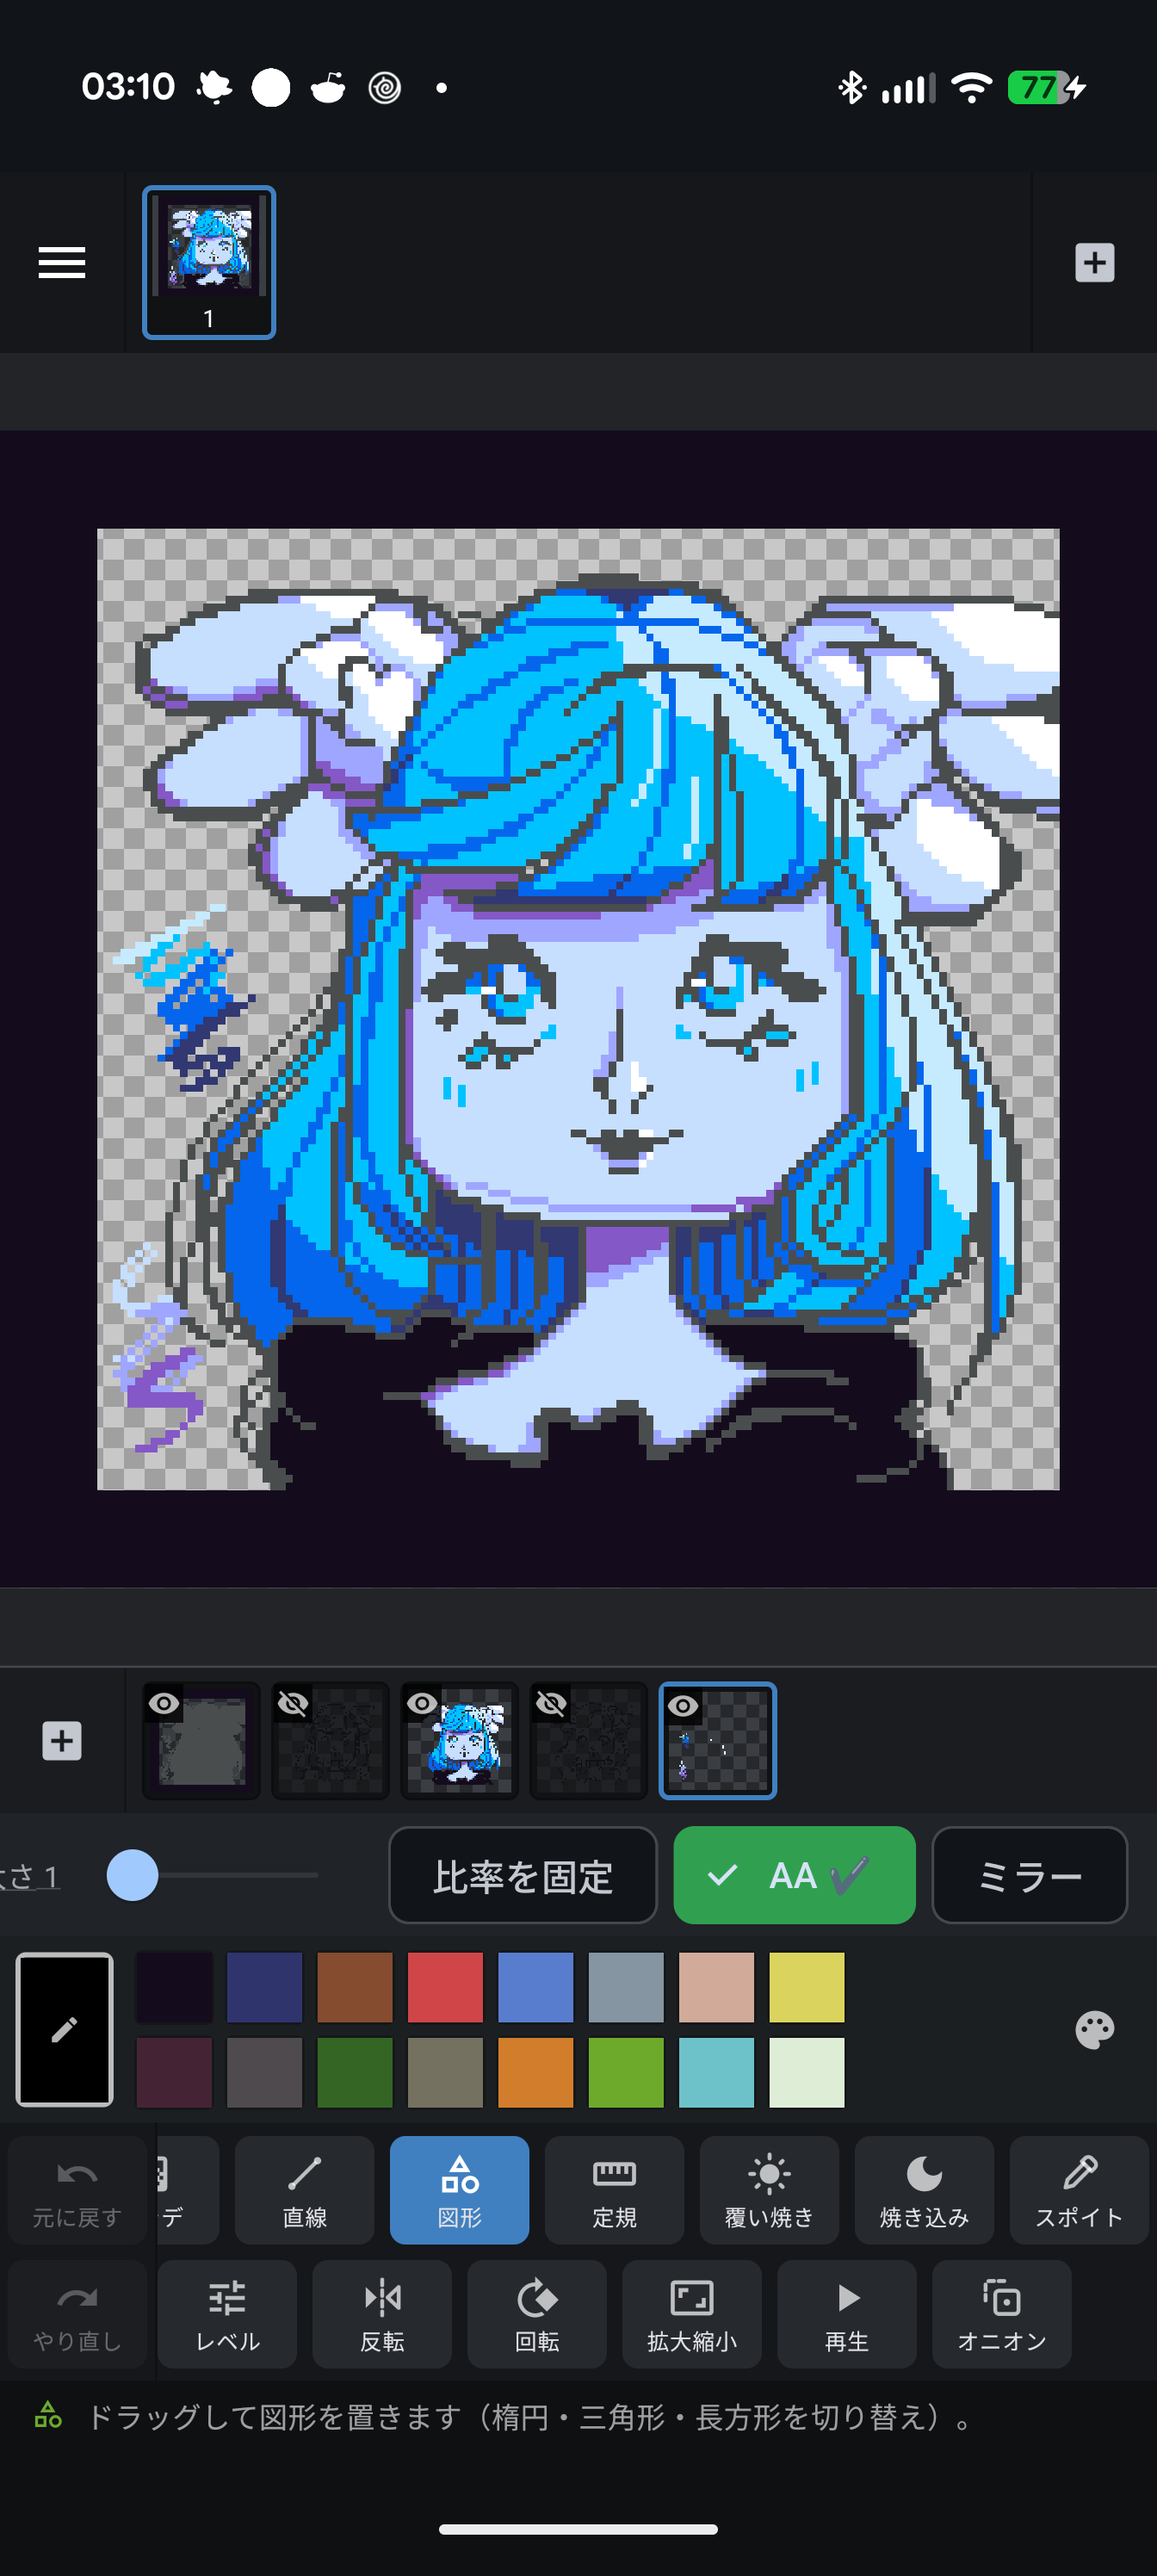
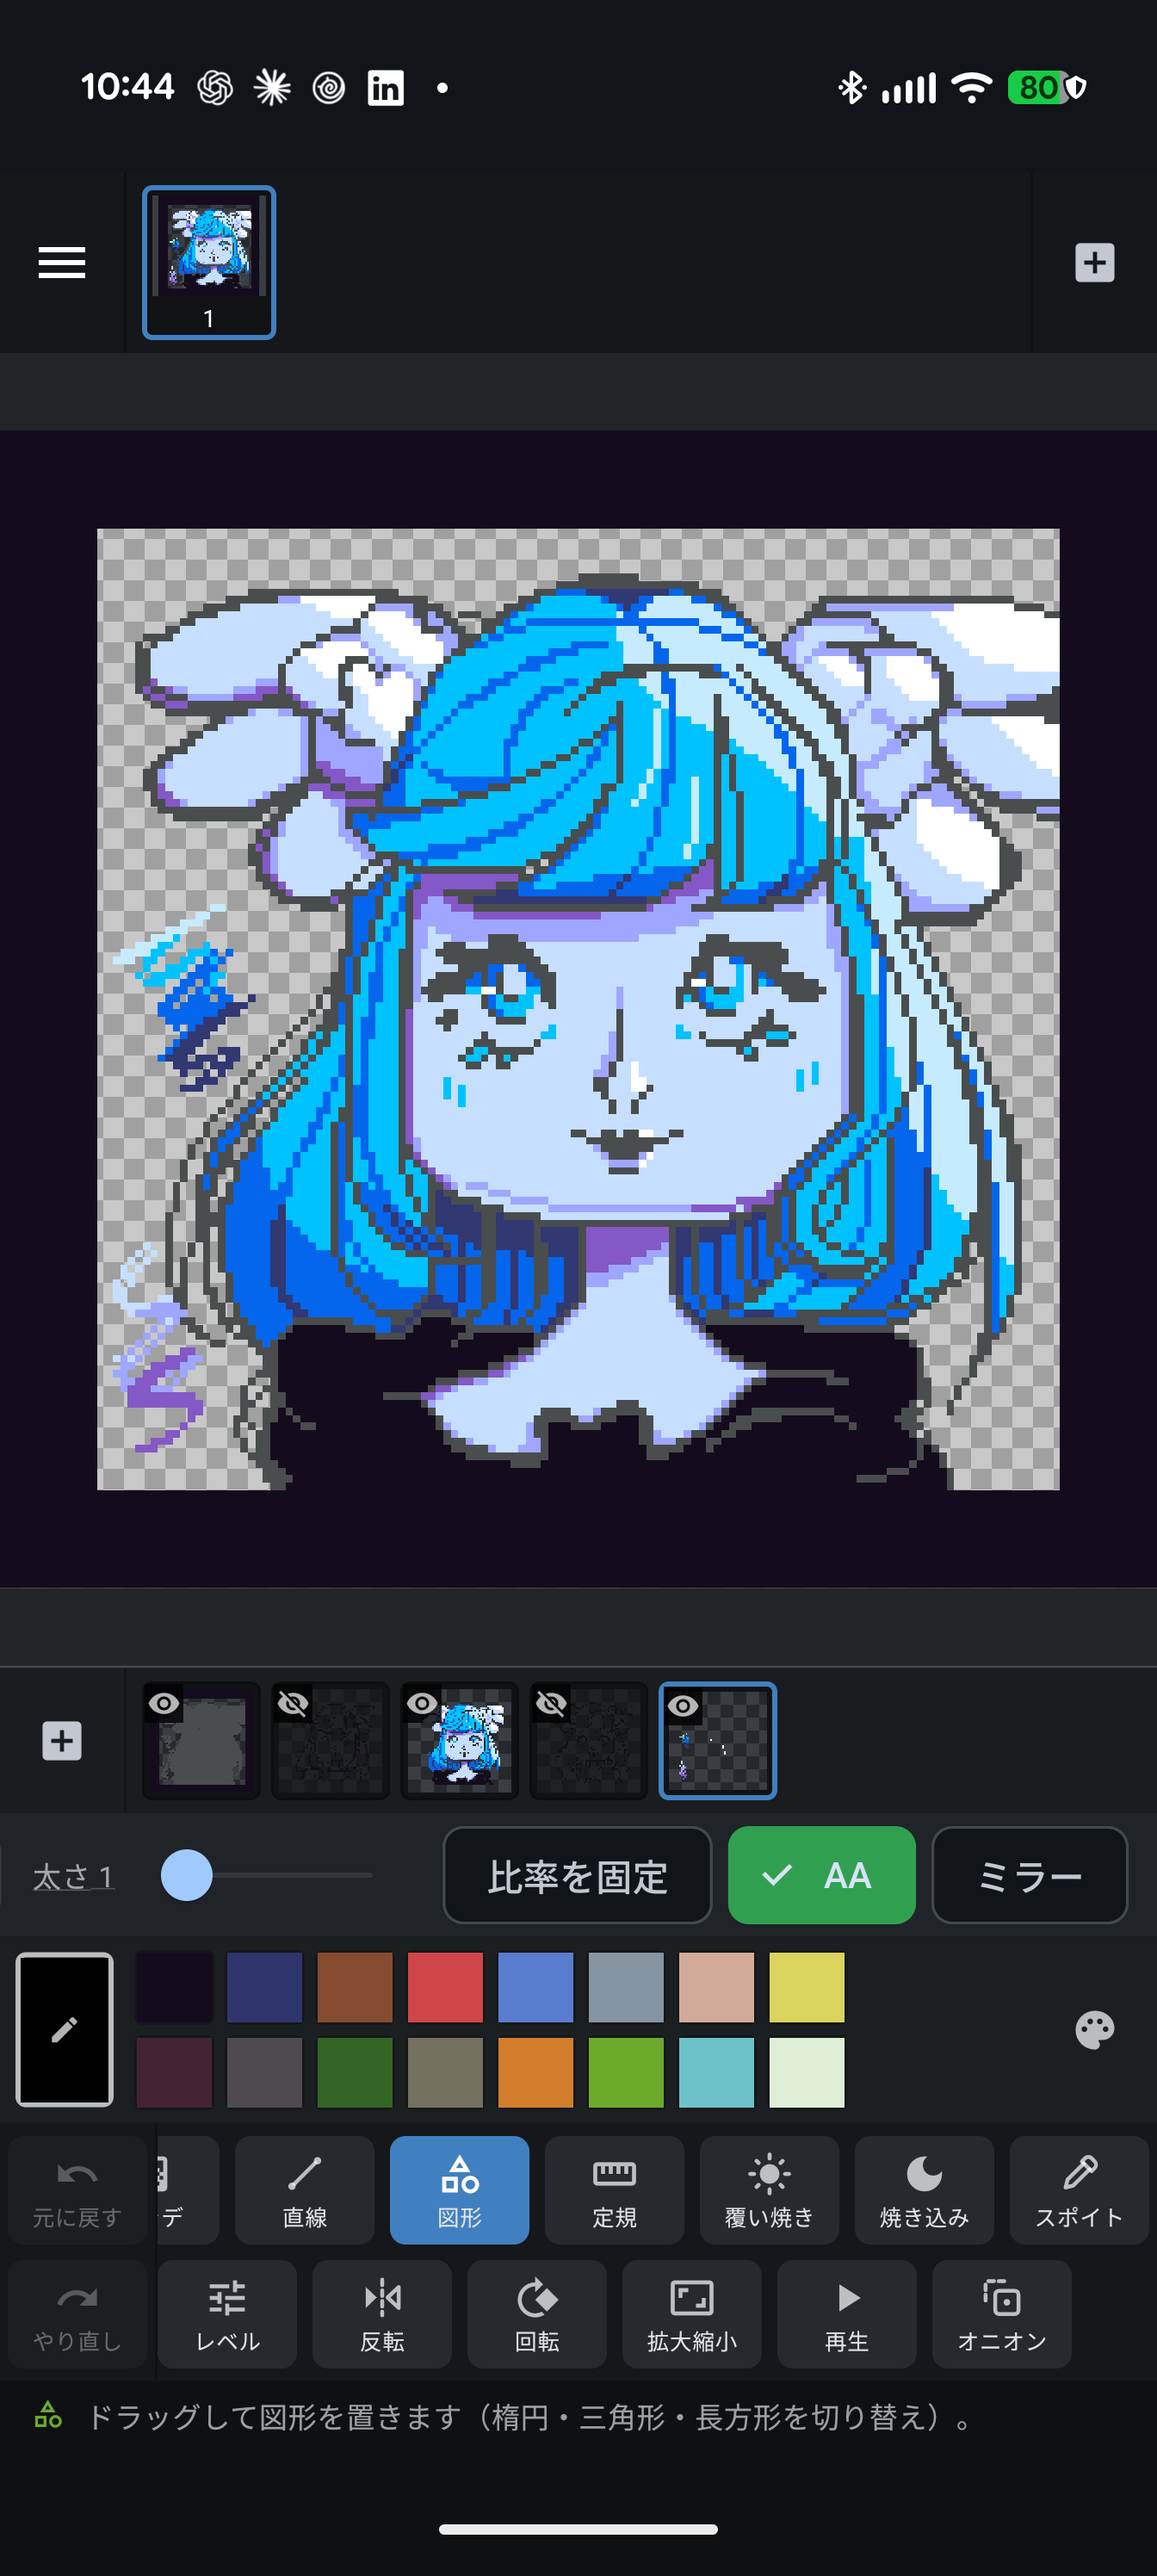
fix(editor): one check mark on selected option chips
Selected chips read "✓ AA ✔": Material's own check plus a "✔" the
editor appended to the label. The text mark is gone everywhere (chips,
Slow, Mirror); Lock Ratio keeps its words when on instead of
shortening to "Ratio"; the Pencil's pattern swatch shows the same check
icon before its tile. A test keeps the text mark out of lib/editor.

Re-shot the three affected store shots in all eight languages
(hero_senna now with the pattern Off, row1_pattern, row1_aa).

Gates: analyzer clean, flutter test 7,817 passed, flutter test
test_engine 72 of 72.

Claude-Session: https://claude.ai/code/session_017GPrGgUa9QPPaSzCM8i4VR

diff --git a/app/lib/editor/editor_page.controls.dart b/app/lib/editor/editor_page.controls.dart
@@ -117,8 +117,8 @@ extension _EditorControls on _EditorPageState {
 
   Widget _buildToolOptions() {
     final l10n = context.l10n;
-    // A chip that is on wears a check after its label.
-    String chk(String s, bool on) => on ? '$s ✔' : s;
+    // A chip that is on shows its state by Material's own check mark and the green fill; the label
+    // is the same words on and off (no second, text check mark).
     // The Layer / Frame scope toggle most tools share.
     final scope = [l10n.optLayer, l10n.optFrame];
     final children = <Widget>[];
@@ -224,7 +224,7 @@ extension _EditorControls on _EditorPageState {
           padding: const EdgeInsets.symmetric(horizontal: 3),
           child: FilterChip(
             selected: _penDown,
-            label: Text(chk(l10n.optHold, _penDown)),
+            label: Text(l10n.optHold),
             selectedColor: const Color(0xFF30A050),
             onSelected: (v) {
               setState(() => _penDown = v);
@@ -261,7 +261,7 @@ extension _EditorControls on _EditorPageState {
         padding: const EdgeInsets.symmetric(horizontal: 3),
         child: FilterChip(
           selected: _wrap,
-          label: Text(chk(l10n.optWrap, _wrap)),
+          label: Text(l10n.optWrap),
           selectedColor: const Color(0xFF30A050),
           onSelected: (v) {
             setState(() => _wrap = v);
@@ -291,7 +291,7 @@ extension _EditorControls on _EditorPageState {
         padding: const EdgeInsets.symmetric(horizontal: 3),
         child: FilterChip(
           selected: _rulerPinned,
-          label: Text(chk(l10n.optPin, _rulerPinned)),
+          label: Text(l10n.optPin),
           selectedColor: const Color(0xFF30A050),
           onSelected: _hasRuler ? (v) => setState(() => _rulerPinned = v) : null,
         ),
@@ -355,7 +355,7 @@ extension _EditorControls on _EditorPageState {
         padding: const EdgeInsets.symmetric(horizontal: 3),
         child: FilterChip(
           selected: _perfect,
-          label: Text(chk(l10n.optPerfect, _perfect)),
+          label: Text(l10n.optPerfect),
           selectedColor: const Color(0xFF30A050),
           onSelected: perfectEnabled
               ? (v) {
@@ -388,7 +388,7 @@ extension _EditorControls on _EditorPageState {
           message: gated ? l10n.optAaGated : '',
           child: FilterChip(
             selected: _aa,
-            label: Text(chk('AA', _aa)), // l10n-ignore: AA is never translated (GLOSSARY)
+            label: Text('AA'), // l10n-ignore: AA is never translated (GLOSSARY)
             selectedColor: const Color(0xFF30A050),
             onSelected: gated
                 ? null
@@ -425,7 +425,7 @@ extension _EditorControls on _EditorPageState {
           padding: const EdgeInsets.symmetric(horizontal: 3),
           child: FilterChip(
             selected: _diagonal,
-            label: Text(chk(l10n.optDiagonal, _diagonal)),
+            label: Text(l10n.optDiagonal),
             selectedColor: const Color(0xFF30A050),
             tooltip: l10n.optDiagonalTip,
             onSelected: (v) {
@@ -452,7 +452,7 @@ extension _EditorControls on _EditorPageState {
           padding: const EdgeInsets.symmetric(horizontal: 3),
           child: FilterChip(
             selected: _fillAllLayers,
-            label: Text(chk(l10n.optAllLayers, _fillAllLayers)),
+            label: Text(l10n.optAllLayers),
             selectedColor: const Color(0xFF30A050),
             onSelected: (v) {
               setState(() => _fillAllLayers = v);
@@ -501,7 +501,7 @@ extension _EditorControls on _EditorPageState {
         padding: const EdgeInsets.symmetric(horizontal: 3),
         child: FilterChip(
           selected: _lockRatio,
-          label: Text(_lockRatio ? chk(l10n.optRatio, true) : l10n.optLockRatio),
+          label: Text(l10n.optLockRatio),
           selectedColor: const Color(0xFF30A050),
           onSelected: (v) {
             setState(() => _lockRatio = v);
@@ -533,7 +533,7 @@ extension _EditorControls on _EditorPageState {
         padding: const EdgeInsets.symmetric(horizontal: 3),
         child: FilterChip(
           selected: _gradSmooth,
-          label: Text(chk(l10n.optSmoothstep, _gradSmooth)),
+          label: Text(l10n.optSmoothstep),
           selectedColor: const Color(0xFF30A050),
           onSelected: (v) {
             setState(() => _gradSmooth = v);
@@ -661,7 +661,7 @@ extension _EditorControls on _EditorPageState {
         padding: const EdgeInsets.symmetric(horizontal: 3),
         child: FilterChip(
           selected: _selLockRatio,
-          label: Text(_selLockRatio ? chk(l10n.optRatio, true) : l10n.optLockRatio),
+          label: Text(l10n.optLockRatio),
           selectedColor: const Color(0xFF30A050),
           onSelected: (v) {
             setState(() => _selLockRatio = v);
@@ -857,7 +857,7 @@ extension _EditorControls on _EditorPageState {
           padding: const EdgeInsets.symmetric(horizontal: 3),
           child: FilterChip(
             selected: _cleanEdge,
-            label: Text(chk('cleanEdge', _cleanEdge)), // l10n-ignore: the algorithm's name
+            label: Text('cleanEdge'), // l10n-ignore: the algorithm's name
             selectedColor: const Color(0xFF30A050),
             onSelected: (v) {
               setState(() => _cleanEdge = v);
@@ -904,7 +904,7 @@ extension _EditorControls on _EditorPageState {
           padding: const EdgeInsets.symmetric(horizontal: 3),
           child: FilterChip(
             selected: _resizeCleanEdge,
-            label: Text(chk('cleanEdge', _resizeCleanEdge)), // l10n-ignore: the algorithm's name
+            label: Text('cleanEdge'), // l10n-ignore: the algorithm's name
             selectedColor: const Color(0xFF30A050),
             onSelected: (v) {
               setState(() => _resizeCleanEdge = v);
@@ -939,7 +939,7 @@ extension _EditorControls on _EditorPageState {
           padding: const EdgeInsets.symmetric(horizontal: 3),
           child: FilterChip(
             selected: _resizeLockRatio,
-            label: Text(chk(l10n.optLock, _resizeLockRatio)),
+            label: Text(l10n.optLock),
             selectedColor: const Color(0xFF30A050),
             onSelected: (v) {
               setState(() => _resizeLockRatio = v);
@@ -1137,7 +1137,7 @@ extension _EditorControls on _EditorPageState {
         padding: const EdgeInsets.symmetric(horizontal: 3),
         child: FilterChip(
           selected: _slowDrafts,
-          label: Text(_slowDrafts ? '${context.l10n.optSlow} ✔' : context.l10n.optSlow),
+          label: Text(context.l10n.optSlow),
           tooltip: context.l10n.optSlowTip,
           selectedColor: const Color(0xFF30A050),
           onSelected: (v) => setState(() => _slowDrafts = v),
@@ -1260,7 +1260,7 @@ extension _EditorControls on _EditorPageState {
   void _cycleSymmetry({bool fromKey = false}) {
     _setSymmetry((_symMode + 1) % 4);
     if (fromKey && !_kMirrorTools.contains(_tool)) {
-      _toast(_symOn ? _symLabel.replaceAll(' ✔', '') : context.l10n.mirrorOffToast);
+      _toast(_symOn ? _symLabel : context.l10n.mirrorOffToast);
     }
   }
 
@@ -1463,12 +1463,14 @@ extension _EditorControls on _EditorPageState {
               border: Border.all(color: on ? const Color(0xFF30A050) : Colors.white24),
               borderRadius: BorderRadius.circular(8),
             ),
+            // When on, the same check mark the option chips show, in the same place (before the
+            // content).
             child: Row(mainAxisSize: MainAxisSize.min, children: [
-              tileBox,
               if (on) ...[
-                const SizedBox(width: 5),
-                const Text('✔', style: TextStyle(fontSize: 13, color: Colors.white, fontWeight: FontWeight.w600)),
+                const Icon(Icons.check, size: 18, color: Colors.white),
+                const SizedBox(width: 4),
               ],
+              tileBox,
             ]),
           ),
         ),

diff --git a/app/test/editor_check_mark_test.dart b/app/test/editor_check_mark_test.dart
@@ -1,0 +1,16 @@
+// A selected option chip shows one check mark: Material's own (the FilterChip draws it). The
+// editor once also appended "✔" to the label, so selected chips read "✓ AA ✔" (fixed
+// 2026-10-02). This keeps the text mark from coming back anywhere in the editor.
+import 'dart:io';
+
+import 'package:flutter_test/flutter_test.dart';
+
+void main() {
+  test('no text check mark in the editor; chips rely on Material’s', () {
+    final offenders = [
+      for (final f in Directory('lib/editor').listSync(recursive: true).whereType<File>())
+        if (f.path.endsWith('.dart') && f.readAsStringSync().contains('✔')) f.path,
+    ];
+    expect(offenders, isEmpty);
+  });
+}

diff --git a/app/lib/editor/editor_page.dart b/app/lib/editor/editor_page.dart
@@ -622,9 +622,9 @@ class _EditorPageState extends ConsumerState<EditorPage>
   String get _symLabel {
     final l10n = context.l10n;
     return switch (_symMode) {
-      1 => '${l10n.mirrorChipH} ✔',
-      2 => '${l10n.mirrorChipV} ✔',
-      3 => '${l10n.mirrorChipBoth} ✔',
+      1 => l10n.mirrorChipH,
+      2 => l10n.mirrorChipV,
+      3 => l10n.mirrorChipBoth,
       _ => l10n.mirrorChip,
     };
   }

diff --git a/docs/i18n/PLAN.md b/docs/i18n/PLAN.md
@@ -527,6 +527,11 @@ Counts are scanner findings on 2026-10-01; the live number per file is in the ba
 
 ## Session log
 
+- **2026-10-02** — Selected option chips showed two check marks ("✓ AA ✔": Material's plus a
+  "✔" the editor added to the label). User decisions: keep Material's only; Lock Ratio keeps its
+  words when on (it shortened to "Ratio ✔"); the Pencil's pattern swatch shows the same check
+  before its tile; the hero store shot has the pattern Off. Test: `editor_check_mark_test.dart`.
+  Re-shot `hero_senna`, `row1_pattern`, `row1_aa` in all eight languages.
 - **2026-10-02** — Live pass on the Pixel (L4): language pickup, override and restart, the
   editor in all eight languages, real Club data. One fix (statistics device names).
 - **2026-10-02** — Screenshot review (first ~50 sheets) and the store listings. Fixes listed

diff --git a/docs/marketing/README.md b/docs/marketing/README.md
@@ -63,7 +63,7 @@ slides, taken on the Pixel 10 Pro XL with the language-preview build (`L10N_PREV
 
 | file | state | crop it feeds |
 |---|---|---|
-| `hero_senna.png` | editor, @birds' "senna fixed", Pencil | `hero_senna_app` |
+| `hero_senna.png` | editor, @birds' "senna fixed", Pencil, pattern Off | `hero_senna_app` |
 | `row1_pattern.png` | Pencil options row scrolled to its end, pattern On | `row1_pattern` |
 | `patterns_page.png` | Patterns page, first Recent pattern selected | `patterns_page_app` |
 | `select_union.png` | Select tool, Oval + Add (row only; the canvas is senna) | `select_row` |
